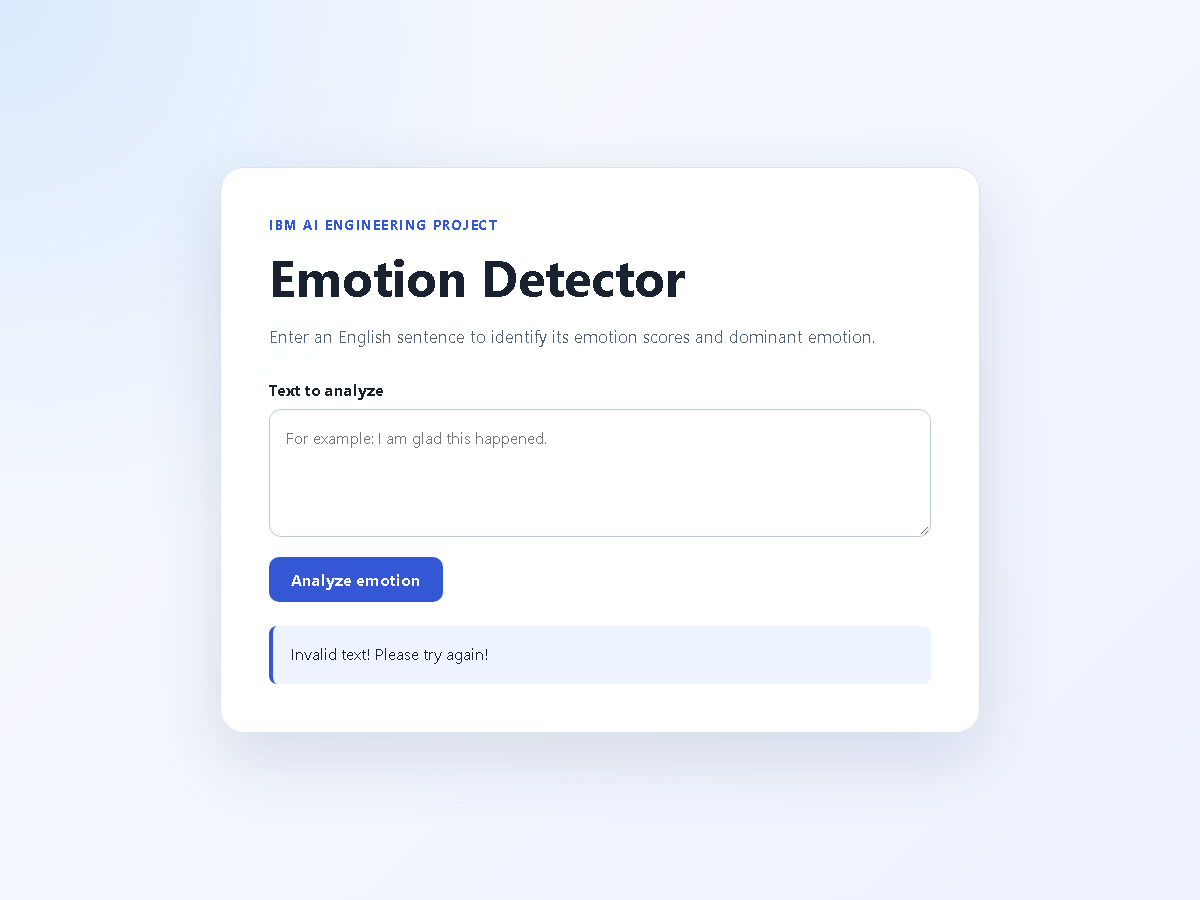
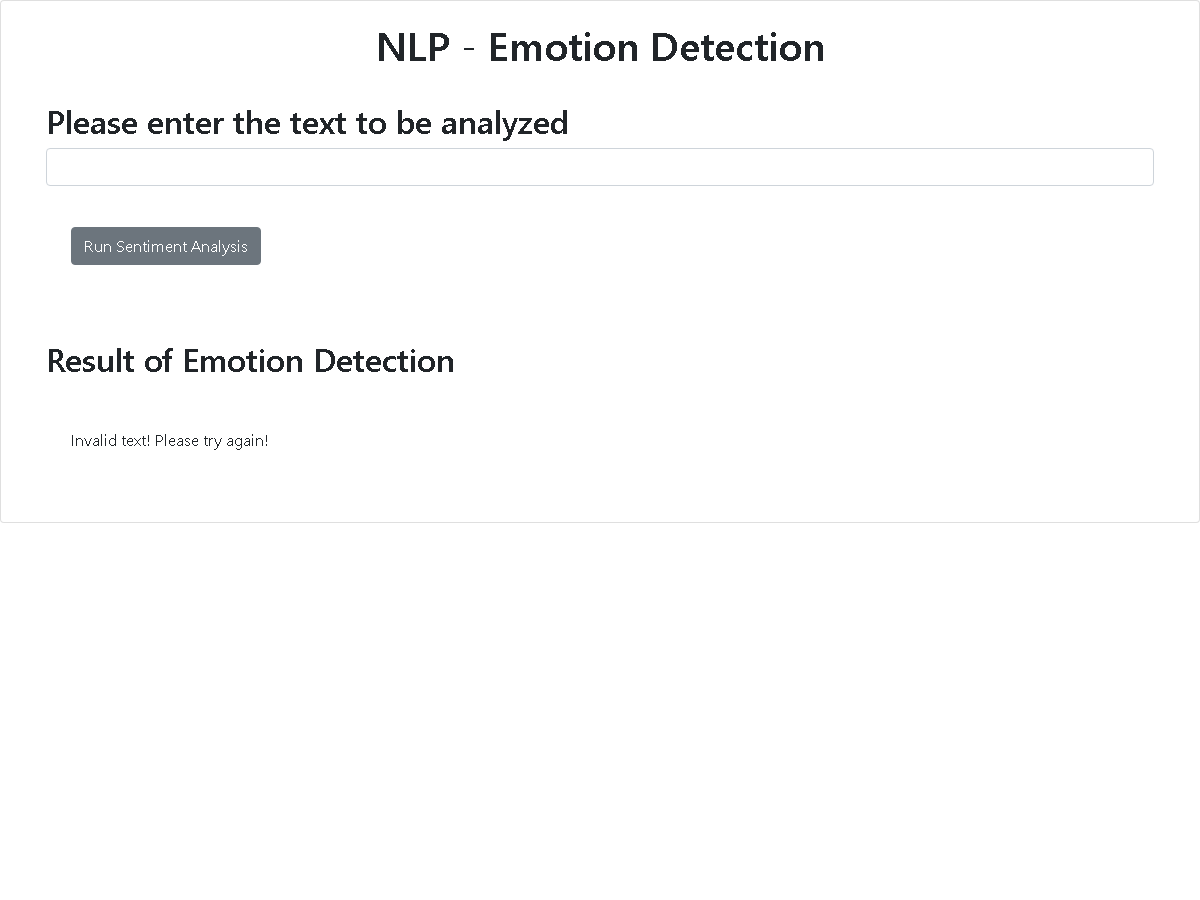
Align submission evidence with IBM rubric

diff --git a/templates/index.html b/templates/index.html
@@ -1,131 +1,34 @@
 <!doctype html>
 <html lang="en">
-  <head>
+<head>
     <meta charset="utf-8">
     <meta name="viewport" content="width=device-width, initial-scale=1">
-    <title>Emotion Detector</title>
+    <title>NLP - Emotion Detection</title>
+    <link rel="stylesheet" href="https://stackpath.bootstrapcdn.com/bootstrap/4.3.1/css/bootstrap.min.css">
+    <script src="/static/mywebscript.js"></script>
     <style>
-      :root {
-        color-scheme: light;
-        font-family: Inter, "Segoe UI", Arial, sans-serif;
-        background: #f4f7fb;
-        color: #182230;
-      }
-
-      * { box-sizing: border-box; }
-
-      body {
-        margin: 0;
-        min-height: 100vh;
-        display: grid;
-        place-items: center;
-        background:
-          radial-gradient(circle at top left, #dbeafe 0, transparent 38%),
-          linear-gradient(135deg, #f8fafc, #eef2ff);
-      }
-
-      main {
-        width: min(760px, calc(100% - 32px));
-        padding: 48px;
-        border: 1px solid #dbe3ef;
-        border-radius: 24px;
-        background: rgba(255, 255, 255, 0.94);
-        box-shadow: 0 24px 70px rgba(35, 55, 90, 0.14);
-      }
-
-      .eyebrow {
-        margin: 0 0 10px;
-        color: #3457d5;
-        font-size: 13px;
-        font-weight: 700;
-        letter-spacing: 0.12em;
-        text-transform: uppercase;
-      }
-
-      h1 { margin: 0; font-size: clamp(32px, 6vw, 50px); }
-
-      .intro {
-        margin: 14px 0 28px;
-        color: #526174;
-        font-size: 17px;
-        line-height: 1.55;
-      }
-
-      label { display: block; margin-bottom: 9px; font-weight: 700; }
-
-      textarea {
-        width: 100%;
-        min-height: 128px;
-        padding: 16px;
-        resize: vertical;
-        border: 1px solid #bcc9da;
-        border-radius: 12px;
-        font: inherit;
-        line-height: 1.5;
-      }
-
-      textarea:focus {
-        outline: 3px solid rgba(52, 87, 213, 0.18);
-        border-color: #3457d5;
-      }
-
-      button {
-        margin-top: 16px;
-        padding: 12px 22px;
-        border: 0;
-        border-radius: 10px;
-        background: #3457d5;
-        color: white;
-        font: inherit;
-        font-weight: 700;
-        cursor: pointer;
-      }
-
-      button:hover { background: #2946ad; }
-
-      #result {
-        min-height: 58px;
-        margin-top: 24px;
-        padding: 16px 18px;
-        border-left: 4px solid #3457d5;
-        border-radius: 8px;
-        background: #eef4ff;
-        line-height: 1.55;
-      }
+        .center-heading { text-align: center; }
     </style>
-  </head>
-  <body>
-    <main>
-      <p class="eyebrow">IBM AI Engineering Project</p>
-      <h1>Emotion Detector</h1>
-      <p class="intro">
-        Enter an English sentence to identify its emotion scores and dominant emotion.
-      </p>
-
-      <label for="textToAnalyze">Text to analyze</label>
-      <textarea id="textToAnalyze" placeholder="For example: I am glad this happened.">{{ initial_text|default('', true) }}</textarea>
-      <button id="analyzeButton" type="button">Analyze emotion</button>
-
-      <div id="result" role="status" aria-live="polite">
-        {{ initial_result|default('Your analysis result will appear here.', true) }}
-      </div>
-    </main>
-
-    <script>
-      const textInput = document.getElementById("textToAnalyze");
-      const result = document.getElementById("result");
-
-      document.getElementById("analyzeButton").addEventListener("click", async () => {
-        result.textContent = "Analyzing…";
-        const query = new URLSearchParams({ textToAnalyze: textInput.value });
-
-        try {
-          const response = await fetch(`/emotionDetector?${query}`);
-          result.textContent = await response.text();
-        } catch (error) {
-          result.textContent = `Unable to analyze the text: ${error.message}`;
-        }
-      });
-    </script>
-  </body>
+</head>
+<body>
+    <div class="card">
+        <div class="card-body">
+            <h1 class="center-heading">NLP - Emotion Detection</h1>
+            <div style="padding: 25px;">
+                <h2 class="mb-3">
+                    <label class="form-label" for="textToAnalyze">Please enter the text to be analyzed</label>
+                    <input type="text" class="form-control" id="textToAnalyze" value="{{ initial_text|default('', true) }}">
+                </h2>
+                <div style="padding: 25px;">
+                    <button onclick="RunSentimentAnalysis()" class="btn btn-secondary">Run Sentiment Analysis</button>
+                </div>
+                <div style="padding: 25px;"></div>
+                <h2 class="mb-3">
+                    <label class="form-label">Result of Emotion Detection</label>
+                </h2>
+                <div id="system_response" style="padding: 25px;">{{ initial_result|default('', true) }}</div>
+            </div>
+        </div>
+    </div>
+</body>
 </html>

diff --git a/static/mywebscript.js b/static/mywebscript.js
@@ -1,0 +1,13 @@
+const RunSentimentAnalysis = () => {
+    const textToAnalyze = document.getElementById("textToAnalyze").value;
+    const request = new XMLHttpRequest();
+
+    request.onreadystatechange = function handleResponse() {
+        if (this.readyState === 4 && this.status === 200) {
+            document.getElementById("system_response").innerHTML = request.responseText;
+        }
+    };
+
+    request.open("GET", `emotionDetector?textToAnalyze=${textToAnalyze}`, true);
+    request.send();
+};

diff --git a/emotion_detection.py b/emotion_detection.py
@@ -1,0 +1,19 @@
+"""Call the Watson NLP emotion prediction service."""
+
+import requests
+
+
+URL = (
+    "https://sn-watson-emotion.labs.skills.network/"
+    "v1/watson.runtime.nlp.v1/NlpService/EmotionPredict"
+)
+HEADERS = {
+    "grpc-metadata-mm-model-id": "emotion_aggregated-workflow_lang_en_stock"
+}
+
+
+def emotion_detector(text_to_analyze):
+    """Return the raw Watson NLP response for the supplied text."""
+    payload = {"raw_document": {"text": text_to_analyze}}
+    response = requests.post(url=URL, headers=HEADERS, json=payload, timeout=30)
+    return response.text
